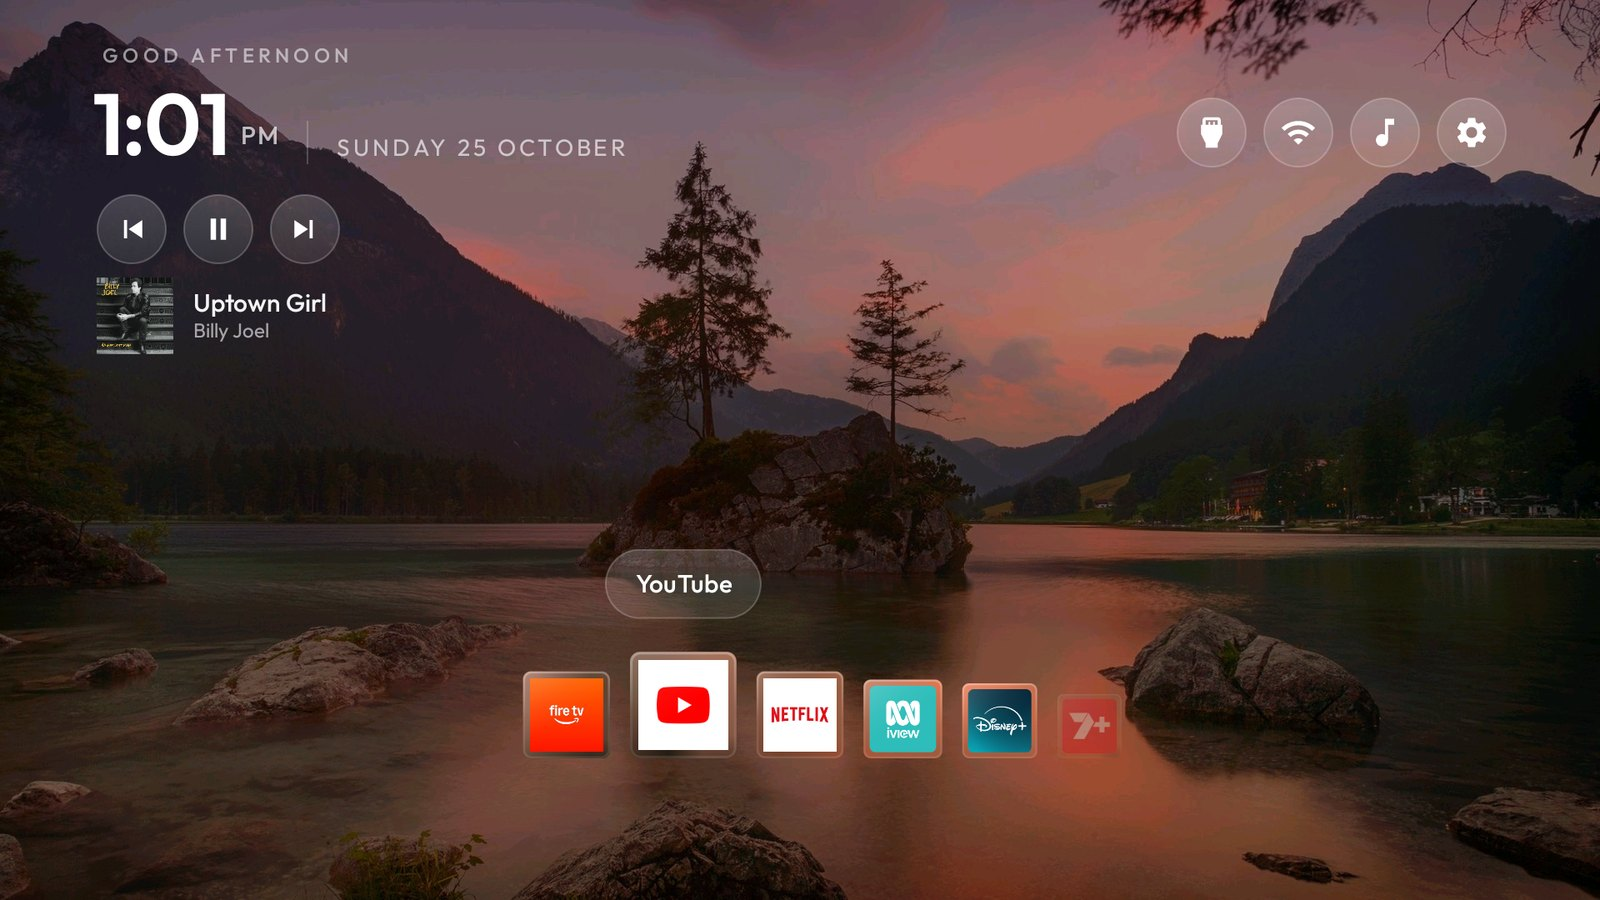
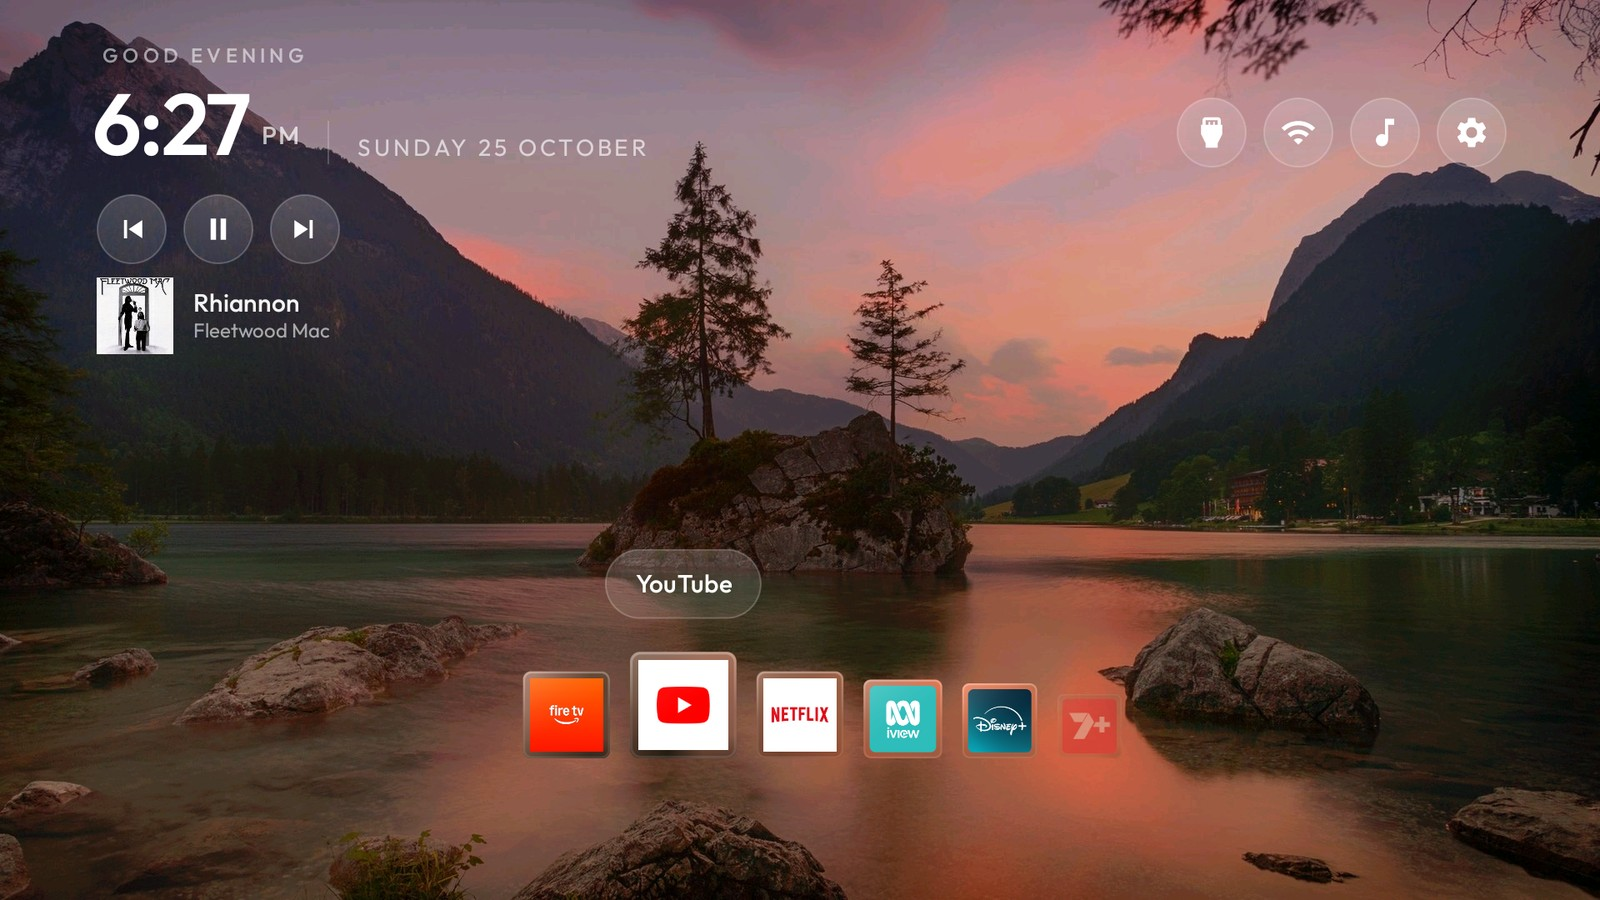
Recapture the screenshots and drop wallpaper_dim to 16
Both shots were too dark to read. The after was dim twice over: the
wallpaper is a dusk photo that only reaches mean luma 89 on its own, and
wallpaper_dim 34 took another third off it. 16 is still enough to hold the
clock and the pills against the sky, so the shipped config and the
screenshot now agree rather than brightening the shot alone.

The before was a near-black frame: the hero had rotated to a dark forest
ad and the launcher's scrim faded it out across most of the width. That
is a real capture of the stock launcher, but it reads as a failed
screenshot and flatters the comparison in a way worth avoiding on the
front page. Recaptured on a frame where the promo, the apps row and the
storefront rows below it are all legible.

The Ralph Lauren ad that the opening paragraph described is no longer in
the picture, and the hero rotation did not bring a sponsored one back, so
the paragraph now describes what the screenshot actually shows.

diff --git a/README.md b/README.md
@@ -4,8 +4,9 @@
 
 ![Before and after](quay/screenshots/before-after.jpg)
 
-The television this was built for opened on an advertisement for Ralph Lauren, above a row called *Mega
-Movie Week*, above *Trending on Google*. The apps I actually used were below the fold.
+The television this was built for opens on a film it wants to sell me, above a row called *Mega Movie
+Week*, above *Top Selling Movies*, above *Trending on Google*. My own apps get one row in the middle
+of all that.
 
 Quay is a dock, a clock, and whatever's playing.
 

diff --git a/quay/README.md b/quay/README.md
@@ -83,7 +83,7 @@ adb shell am force-stop com.gathin.tvhome
 ```
 
 `config.json` overlays `config.xml` and only overrides the keys it names. It currently sets
-`wallpaper_dim: 34`, which keeps the clock and pills legible against the bright sky.
+`wallpaper_dim: 16`, enough to hold the clock and pills against the bright sky without flattening it.
 
 **These files do not survive a factory reset or Clear data on the launcher.** Re-push them.
 
